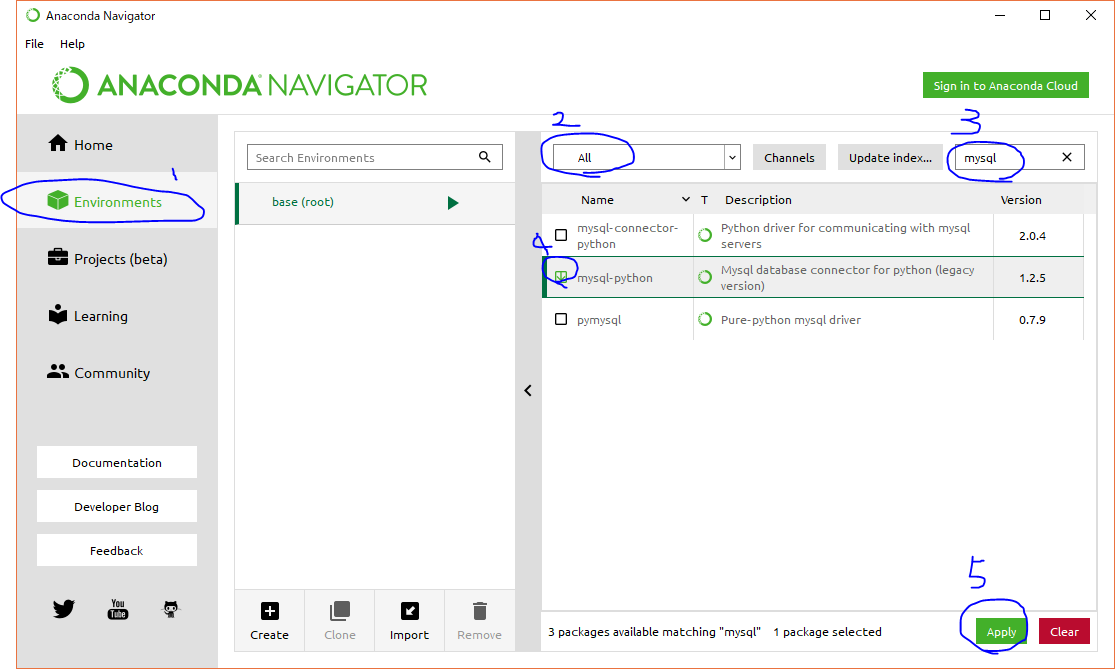
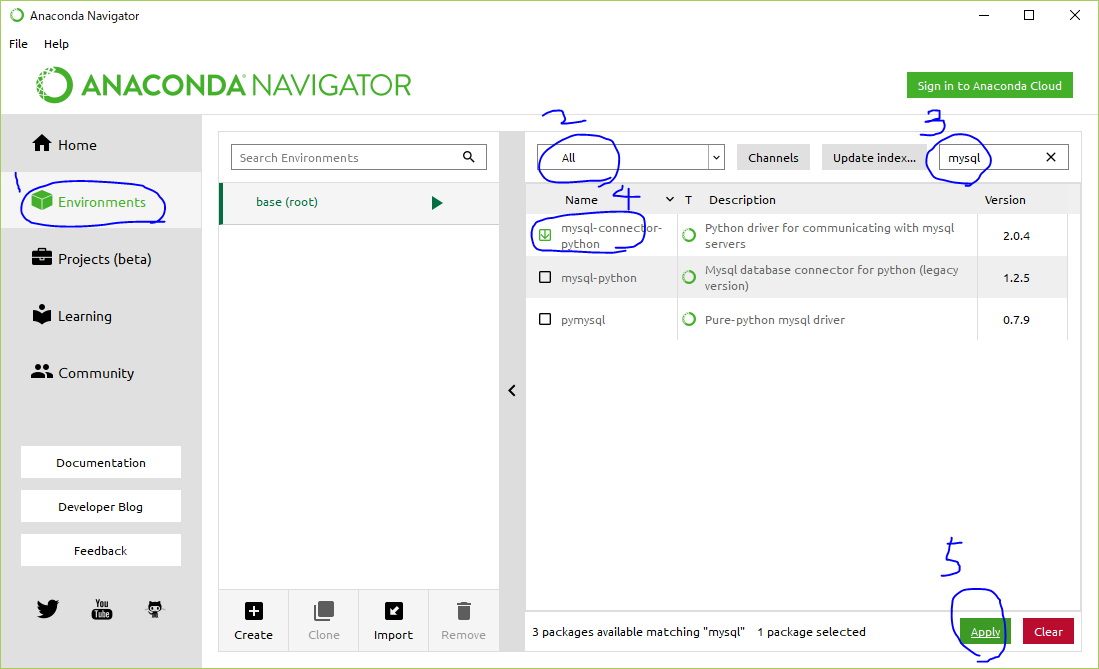
add 5

diff --git a/5-python-mysql-answer.md b/5-python-mysql-answer.md
@@ -1,0 +1,199 @@
+## 演習5-1の答え
+
+```Python
+
+# -*- coding: utf-8 -*-
+import mysql.connector
+
+# MySQLに接続する
+con = mysql.connector.connect(
+        host='127.0.0.1',
+        db='test',
+        user='root',
+        password='temutemu' #設定したパスワードを入れる
+    )
+cur = con.cursor()
+
+data_list = [
+        {
+                'id': 6,
+                'name': 'Shigeru Joshima',
+                'gender':'M',
+                'age':47,
+                'zip':'1420001',
+                'email':'joshima@hoge.com'
+        },
+        {
+                'id': 7,
+                'name': 'Taichi Kokubun',
+                'gender':'M',
+                'age':43,
+                'zip':'1420001',
+                'email':'kokubun@hoge.com'
+        },
+        {
+                'id': 8,
+                'name': 'Masahiro Matsuoka',
+                'gender':'M',
+                'age':41,
+                'zip':'1420001',
+                'email':'matsuoka@hoge.com'
+        },
+        {
+                'id': 9,
+                'name': 'Tomoya Nagase',
+                'gender':'M',
+                'age':39,
+                'zip':'1420001',
+                'email':'nagase@hoge.com'
+        },
+]
+
+for d in data_list:
+    # SQLを実行する
+    sql = "insert into users values({0}, '{1}', '{2}', {3}, '{4}', '{5}')".format(d['id'],d['name'],d['gender'],d['age'],d['zip'],d['email'])
+    cur.execute(sql)
+
+# 変更を確定する
+con.commit()
+
+# データベースからの接続をクローズする
+cur.close()
+con.close()
+
+```
+
+## 演習5-2の答え
+
+```python
+# -*- coding: utf-8 -*-
+
+import mysql.connector
+
+# MySQLに接続する
+con = mysql.connector.connect(
+        host='127.0.0.1',
+        db='test',
+        user='root',
+        password='xxx' #設定したパスワードを入れる
+    )
+cur = con.cursor()
+
+# APIのデータを取得する(ここからは演習3-3の内容)
+import requests
+import json
+from datetime import datetime, timezone, timedelta
+api_key = "e6bc6cc0169f020add3b459c0c14c71c"
+city = "Tokyo"
+response = requests.get("https://api.openweathermap.org/data/2.5/forecast?q={0}&appid={1}".format(city,api_key))
+json_str = response.text
+f_dict = json.loads(json_str)
+
+weather_list = f_dict["list"]
+for w_dict in weather_list:
+    # 時刻
+    unix_time = w_dict["dt"]
+    JST = timezone(timedelta(hours=+9), 'JST')
+    time = datetime.fromtimestamp(unix_time,  JST)
+
+    # 摂氏の温度
+    temp_kerbin = w_dict["main"]["temp"]
+    temp = temp_kerbin - 273.15
+
+    # 天気
+    weather = w_dict["weather"][0]["main"]
+
+    # 風の強さ
+    wind_speed = w_dict["wind"]["speed"]
+
+    # SQLを作る
+    sql = "insert into forcast values('{0}',{1},'{2}',{3})".format(time,temp,weather,wind_speed)
+
+    # SQLを表示する（デバッグ用）
+    print(sql)
+
+    # SQLを実行する
+    cur.execute(sql)
+
+
+# 変更を確定する
+con.commit()
+
+# データベースからの接続をクローズする
+cur.close()
+con.close()
+```
+
+
+## 演習5-3の答え
+
+```sql
+CREATE TABLE forcast2(
+	  dt DATETIME,
+    temp FLOAT,
+    wather VARCHAR(40),
+    windspeed FLOAT
+);
+```
+
+```python
+# -*- coding: utf-8 -*-
+
+import mysql.connector
+
+# MySQLに接続する
+con = mysql.connector.connect(
+        host='127.0.0.1',
+        db='test',
+        user='root',
+        password='xxx' #設定したパスワードを入れる
+    )
+cur = con.cursor()
+
+# APIのデータを取得する(ここからは演習3-3の内容)
+import requests
+import json
+from datetime import datetime, timezone, timedelta
+api_key = "e6bc6cc0169f020add3b459c0c14c71c"
+city = "Tokyo"
+response = requests.get("https://api.openweathermap.org/data/2.5/forecast?q={0}&appid={1}".format(city,api_key))
+json_str = response.text
+f_dict = json.loads(json_str)
+
+weather_list = f_dict["list"]
+for w_dict in weather_list:
+    # 時刻
+    unix_time = w_dict["dt"]
+    JST = timezone(timedelta(hours=+9), 'JST')
+    time = datetime.fromtimestamp(unix_time,  JST)
+
+    # 摂氏の温度
+    temp_kerbin = w_dict["main"]["temp"]
+    temp = temp_kerbin - 273.15
+
+    # 天気
+    weather = w_dict["weather"][0]["main"]
+
+    # 風の強さ
+    wind_speed = w_dict["wind"]["speed"]
+
+    # 日時をMySQLのDATETIME型に挿入できる形にする
+    time_str = time.strftime("%Y-%m-%d %H:%M:%S")
+
+    # SQLを作る
+    sql = "insert into forcast2 values('{0}',{1},'{2}',{3})".format(time_str,temp,weather,wind_speed)
+
+    # SQLを表示する（デバッグ用）
+    print(sql)
+
+    # SQLを実行する
+    cur.execute(sql)
+
+
+# 変更を確定する
+con.commit()
+
+# データベースからの接続をクローズする
+cur.close()
+con.close()
+```

diff --git a/5-python-mysql.md b/5-python-mysql.md
@@ -19,20 +19,158 @@ ModuleNotFoundError: No module named 'mysql'
 
 ### Python-MySQLドライバのインストール
 
-1. Anaconda Navigatorを起動→左のタブからEnvironmentsを選択 → この画面でインストールしているライブラリの一覧を見ることができる
+1. Anaconda Navigatorを起動→左のタブからEnvironmentsを選択
 
-2. InstalledとなっているプルダウンをAllに変更し、 Search Packagesの欄に「MySQL」と入力する → これによりまだインストールしていないライブラリの中からMySQLという文字が含まれるライブラリを検索している
+2. InstalledとなっているプルダウンをAllに変更
 
-3. mysql-connector-python　を選択して、Applyをクリック
+3. Search Packagesの欄に「mysql」と入力する
+
+4. mysql-connector-python 　を選択
+
+5. Applyをクリック
 
 ![5-1.png](images/5-1.png)
 
-4. install packagesで以下の画面になった準備完了。Applyをクリック
+install packagesで以下の画面になった準備完了。Applyをクリック
 
 <img src="images/5-2.png" width="200">
-
-5. spyderに戻り`import mysql.connector`が書かれたプログラムを実行し、エラーが出なければOK
 
 ※)以下の様な画面が出た場合は、「Anaconda Navigatorを最新にバージョンアップをしないか？」といってきているので、Noを選択すればOK
 
 <img src="images/5-3.png" width="200">
+
+### Python-MySQLドライバのインポート
+
+spyderに戻り以下が書かれたプログラムを実行し、エラーが出なければOK
+
+```python
+import mysql.connector
+```
+
+### PythonからMySQLのテーブルを参照する
+
+```python
+# -*- coding: utf-8 -*-
+import mysql.connector
+
+# MySQLに接続する
+con = mysql.connector.connect(
+        host='127.0.0.1',
+        db='test',
+        user='root',
+        password='xxxxx' #設定したパスワードを入れる
+    )
+cur = con.cursor()
+
+# SQLを実行する
+sql = "select * from users"
+cur.execute(sql)
+
+# 結果をデータベースから全件取得する
+rows = cur.fetchall()
+
+# 表示する
+for row in rows:
+    print(row)
+
+# データベースからの接続をクローズする
+cur.close()
+con.close()
+```
+
+### PythonからMySQLのテーブルにデータを投入する
+
+
+```python
+# -*- coding: utf-8 -*-
+import mysql.connector
+
+# MySQLに接続する
+con = mysql.connector.connect(
+        host='127.0.0.1',
+        db='test',
+        user='root',
+        password='xxxx' #設定したパスワードを入れる
+    )
+cur = con.cursor()
+
+# SQLを実行する
+sql = "insert into users values(4, 'Yuki Kato', 'F', 15, '1420043', 'yuki@hoge.com')"
+cur.execute(sql)
+
+# 変更を確定する
+con.commit()
+
+# データベースからの接続をクローズする
+cur.close()
+con.close()
+```
+
+データベースで`SELECT * FROM users`を実行しid=4のレコードが挿入されていることを確認
+
+### 演習5-1
+
+以下のデータをusersテーブルに挿入せよ
+
+```
+data_list = [
+        {
+                'id': 6,
+                'name': 'Shigeru Joshima',
+                'gender':'M',
+                'age':47,
+                'zip':'1420001',
+                'email':'joshima@hoge.com'
+        },
+        {
+                'id': 7,
+                'name': 'Taichi Kokubun',
+                'gender':'M',
+                'age':43,
+                'zip':'1420001',
+                'email':'kokubun@hoge.com'
+        },
+        {
+                'id': 8,
+                'name': 'Masahiro Matsuoka',
+                'gender':'M',
+                'age':41,
+                'zip':'1420001',
+                'email':'matsuoka@hoge.com'
+        },
+        {
+                'id': 9,
+                'name': 'Tomoya Nagase',
+                'gender':'M',
+                'age':39,
+                'zip':'1420001',
+                'email':'nagase@hoge.com'
+        },
+]
+```
+
+
+
+### 演習5-2
+
+演習3-3で取得してた天気予報データをMySQLに挿入せよ
+
+手順
+1. データベースに天気予報テーブルを作る
+2. 演習3-3のコードを改造して、SQLを生成する
+3. SQLを実行する
+
+天気予報テーブルのテーブルは以下のように作る
+
+```sql
+CREATE TABLE forcast(
+    dt VARCHAR(40),
+    temp FLOAT,
+    wather VARCHAR(40),
+    windspeed FLOAT
+);
+```
+
+### 演習5-3(時間が余った人)
+
+演習5-2において、時間を表すdtの列はVARCHAR(50)である。これをDATETIME型に変えたテーブルforcast2を作成し、天気予報データを挿入せよ。
